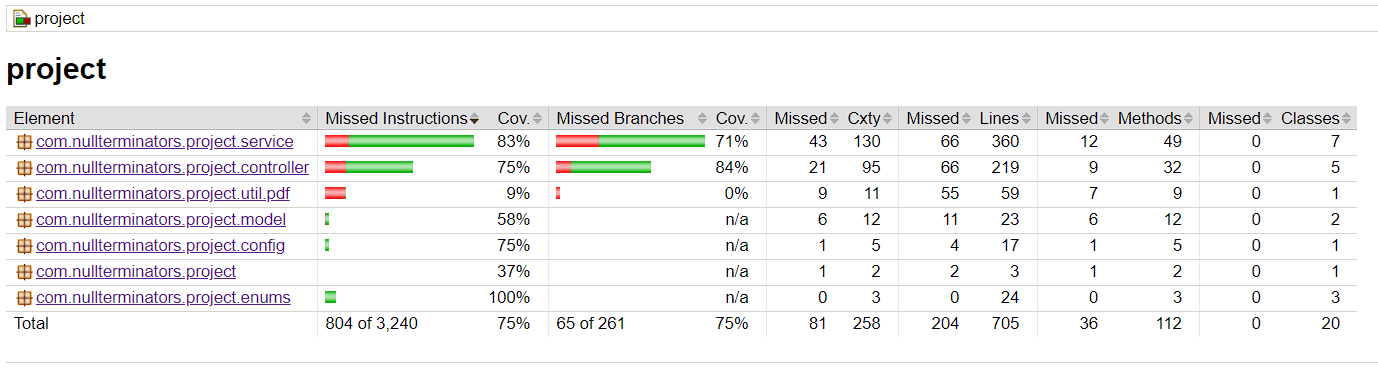
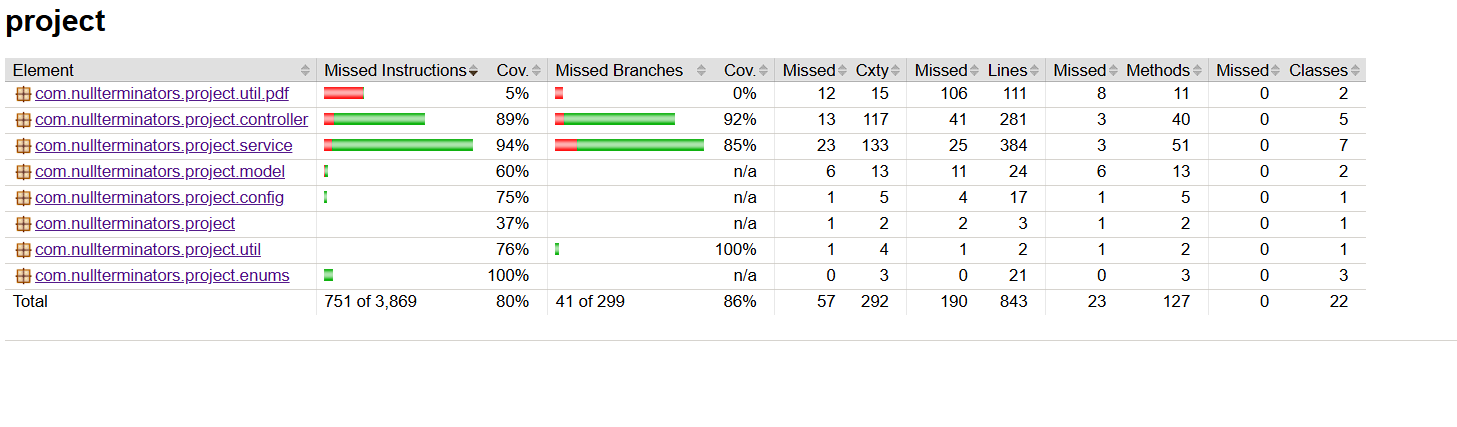
Update readme file with relevant information

Changed region(s): [[0.0, 0.1224, 0.9985, 0.8571], [0.0, 0.0, 0.0936, 0.0918], [0.9049, 0.7653, 0.9985, 0.8265]]

diff --git a/README.md b/README.md
@@ -5,6 +5,8 @@ Team Members:
 
 Abhilash Ganga (ag4797), Ajit Sharma Kasturi (ak5055), Hamsitha Challagundla (hc3540), Madhura Chatterjee (mc5470),  Samhit Chowdary Bhogavalli (sb4845)
 
+## Viewing the Client Repository
+Please use the following link to view the repository relevant to the client: https://github.com/Samhit-Chowdary/4156-Team-project-client
 
 ## Dependencies
 
@@ -31,7 +33,7 @@ mvn pmd:check
 ```
 You can find the report at `target/pmd.xml`
 
-I used the following plugin for pmd static bug analyzer.
+We used the following plugin for pmd static bug analyzer.
 ```declarative
 <plugin>
     <groupId>org.apache.maven.plugins</groupId>
@@ -42,6 +44,14 @@ I used the following plugin for pmd static bug analyzer.
     </configuration>
 </plugin>
 ```
+
+## CI Pipeline
+The CI pipeline is defined in the `.github/workflows/main.yml` file, which automatically builds the project and runs various tests, including:
+
+* Style Check using Checkstyle.
+* Static Code Analysis using PMD.
+* Branch Coverage using Jacoco.
+* API Testing using Postman and Newman.
 
 ## Endpoints
 
@@ -314,7 +324,7 @@ Our integration tests are:
 3. **Focus on Logical Flow**: These tests check if the controller's business logic integrates correctly with mocked dependencies, ensuring the controller's endpoints handle input, invoke the correct service or repository methods, and return expected responses.
 
 ### Our integration tests:
-### 1. **`testGetSubordinatesSuccess`**
+#### 1. **`testGetSubordinatesSuccess`**
 - **Purpose**: Validates that the `getSubordinates` endpoint successfully retrieves a supervisor's subordinates.
 - **Integration Points**:
     - **`EmployeeHierarchyRepository`**: Simulates fetching subordinates by supervisor ID.
@@ -326,7 +336,7 @@ Our integration tests are:
     - The number of subordinates matches the expected value.
 
 
-### 2. **`testAddEmployeeSupervisorEdgeSuccess`**
+#### 2. **`testAddEmployeeSupervisorEdgeSuccess`**
 - **Purpose**: Verifies that an edge between an employee and a supervisor is successfully created when valid data is provided.
 - **Integration Points**:
     - **`EmployeeHierarchyRepository`**: Checks for existing supervisors and subtree data to prevent cycles.
@@ -336,7 +346,7 @@ Our integration tests are:
     - Response status code is `200 OK`.
     - The response body contains a success message: `"Edge added successfully."`
 
-### 3. **`testAddEmployeeSupervisorEdgeFailureCycle`**
+#### 3. **`testAddEmployeeSupervisorEdgeFailureCycle`**
 - **Purpose**: Ensures the system prevents adding an edge that would create a cycle in the hierarchy.
 - **Integration Points**:
     - **`EmployeeHierarchyRepository`**: Simulates a condition where a cycle would occur if the edge is added.
@@ -346,7 +356,7 @@ Our integration tests are:
     - Response status code is `400 Bad Request`.
     - The response body contains the error message: `"Operation failed: Employee already has a supervisor, or adding this edge would create a cycle."`
 
-### 4. **`testGetSubordinatesFailure`**
+#### 4. **`testGetSubordinatesFailure`**
 - **Purpose**: Validates that the `getSubordinates` endpoint correctly handles a scenario where the supervisor ID does not exist.
 - **Integration Points**:
     - **`EmployeeHierarchyRepository`**: Simulates a case where no subordinates are found for the given supervisor ID.
@@ -370,7 +380,7 @@ After the style check command is run, the report is generated in the `target/sit
 
 #### Branch Coverage Report
 After the test coverage command is run, the report is generated in the `target/site/jaCoCo` folder as html file.
-This project has 94% branch coverage.
+This project has 86% branch coverage.
 
 ![Branch Coverage Report](reports/branchcoverage.png)
 
